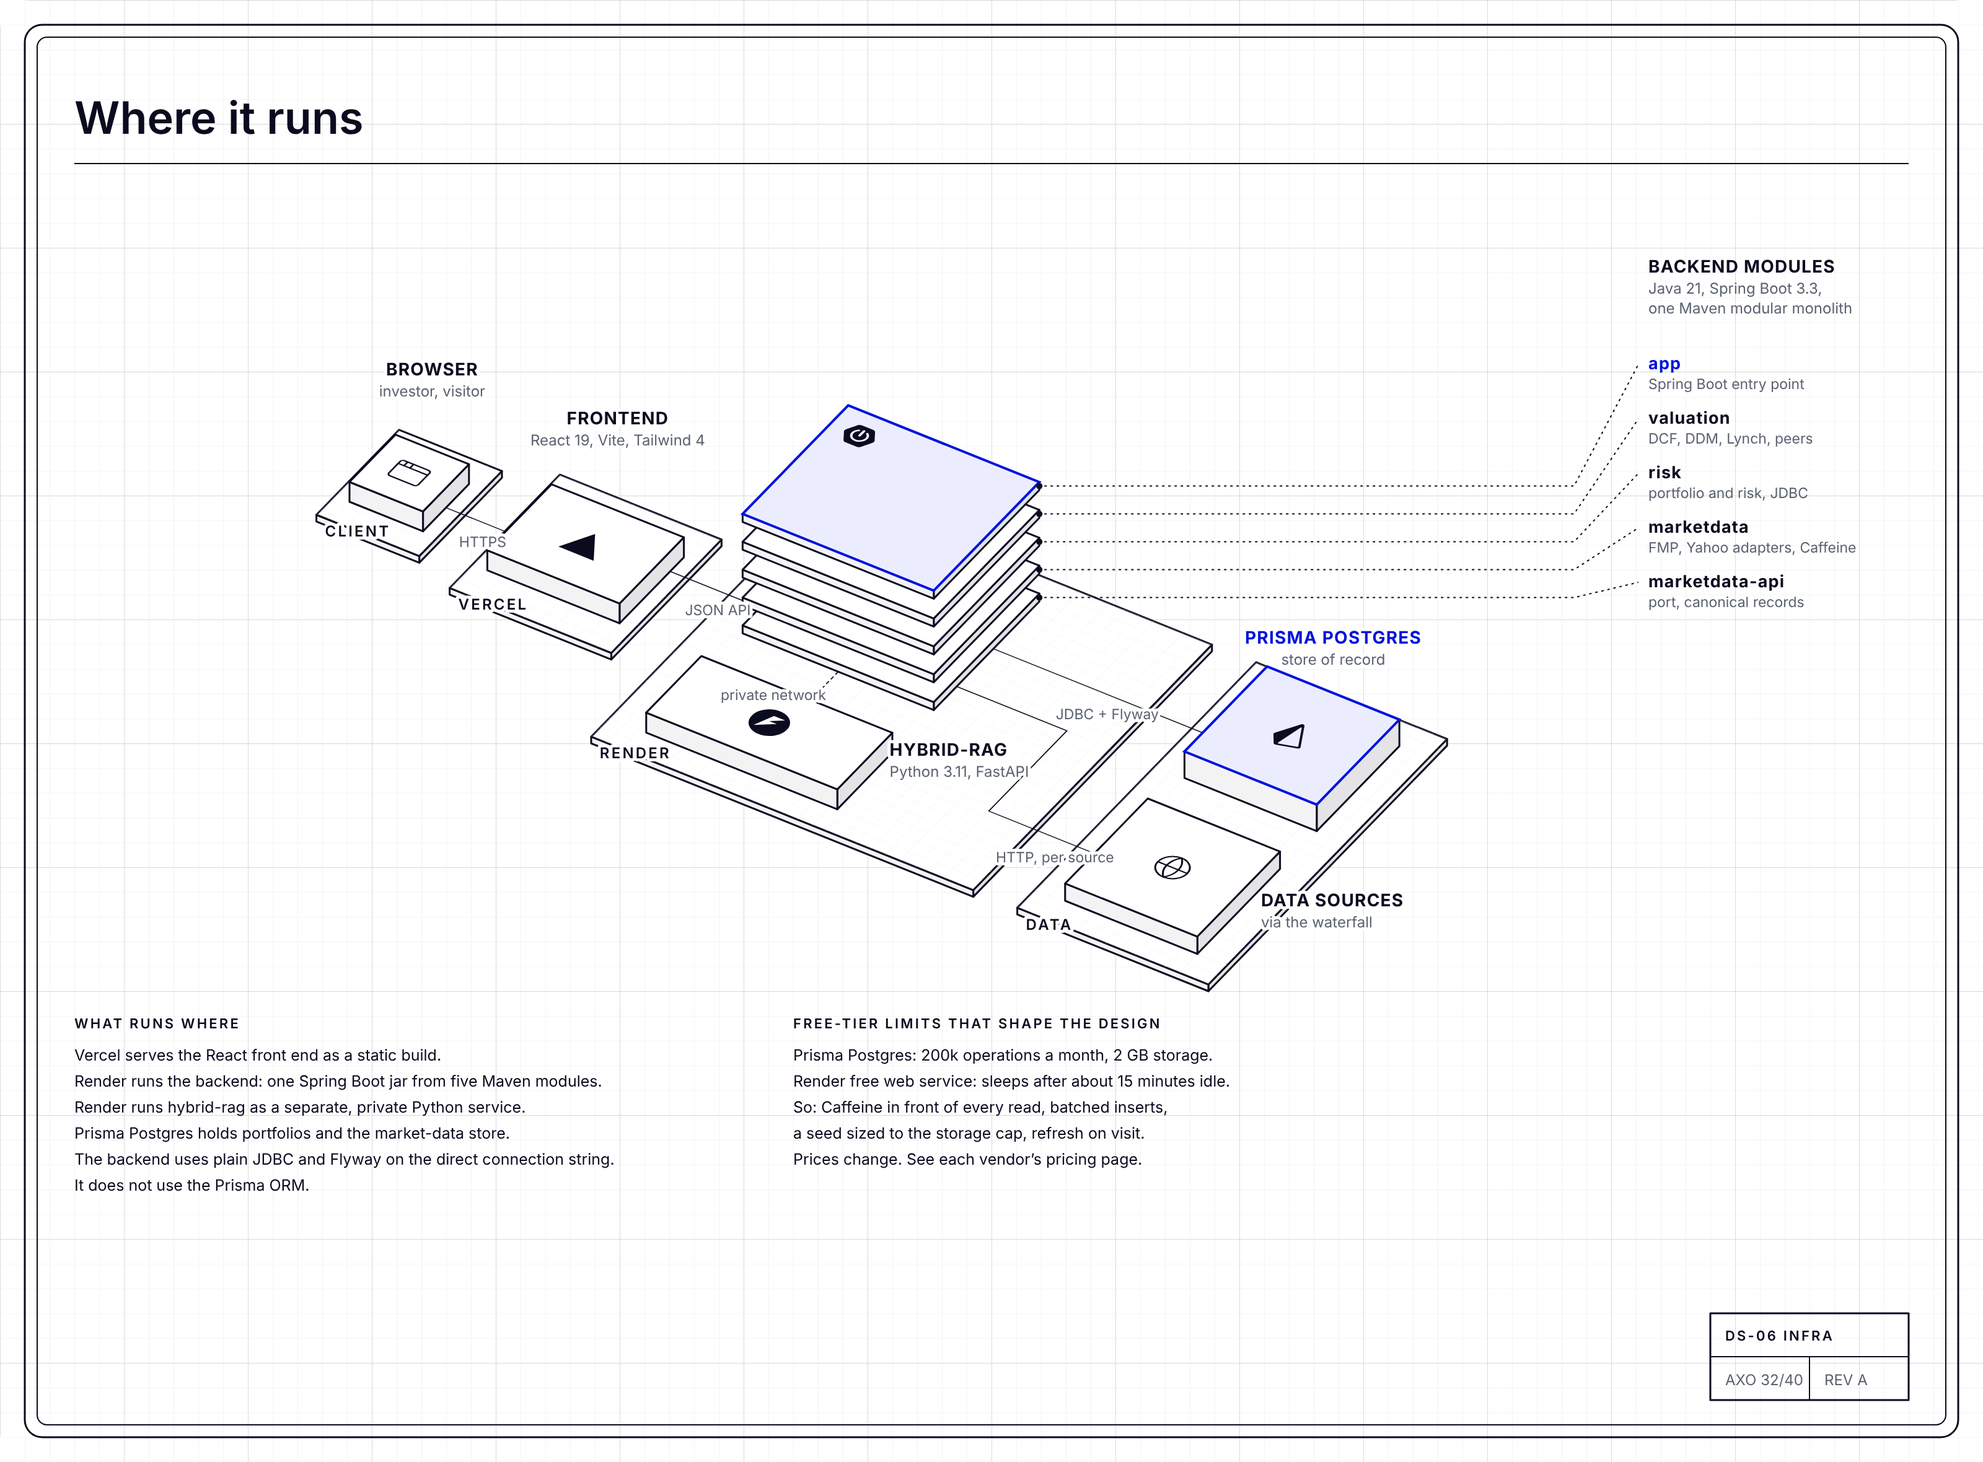
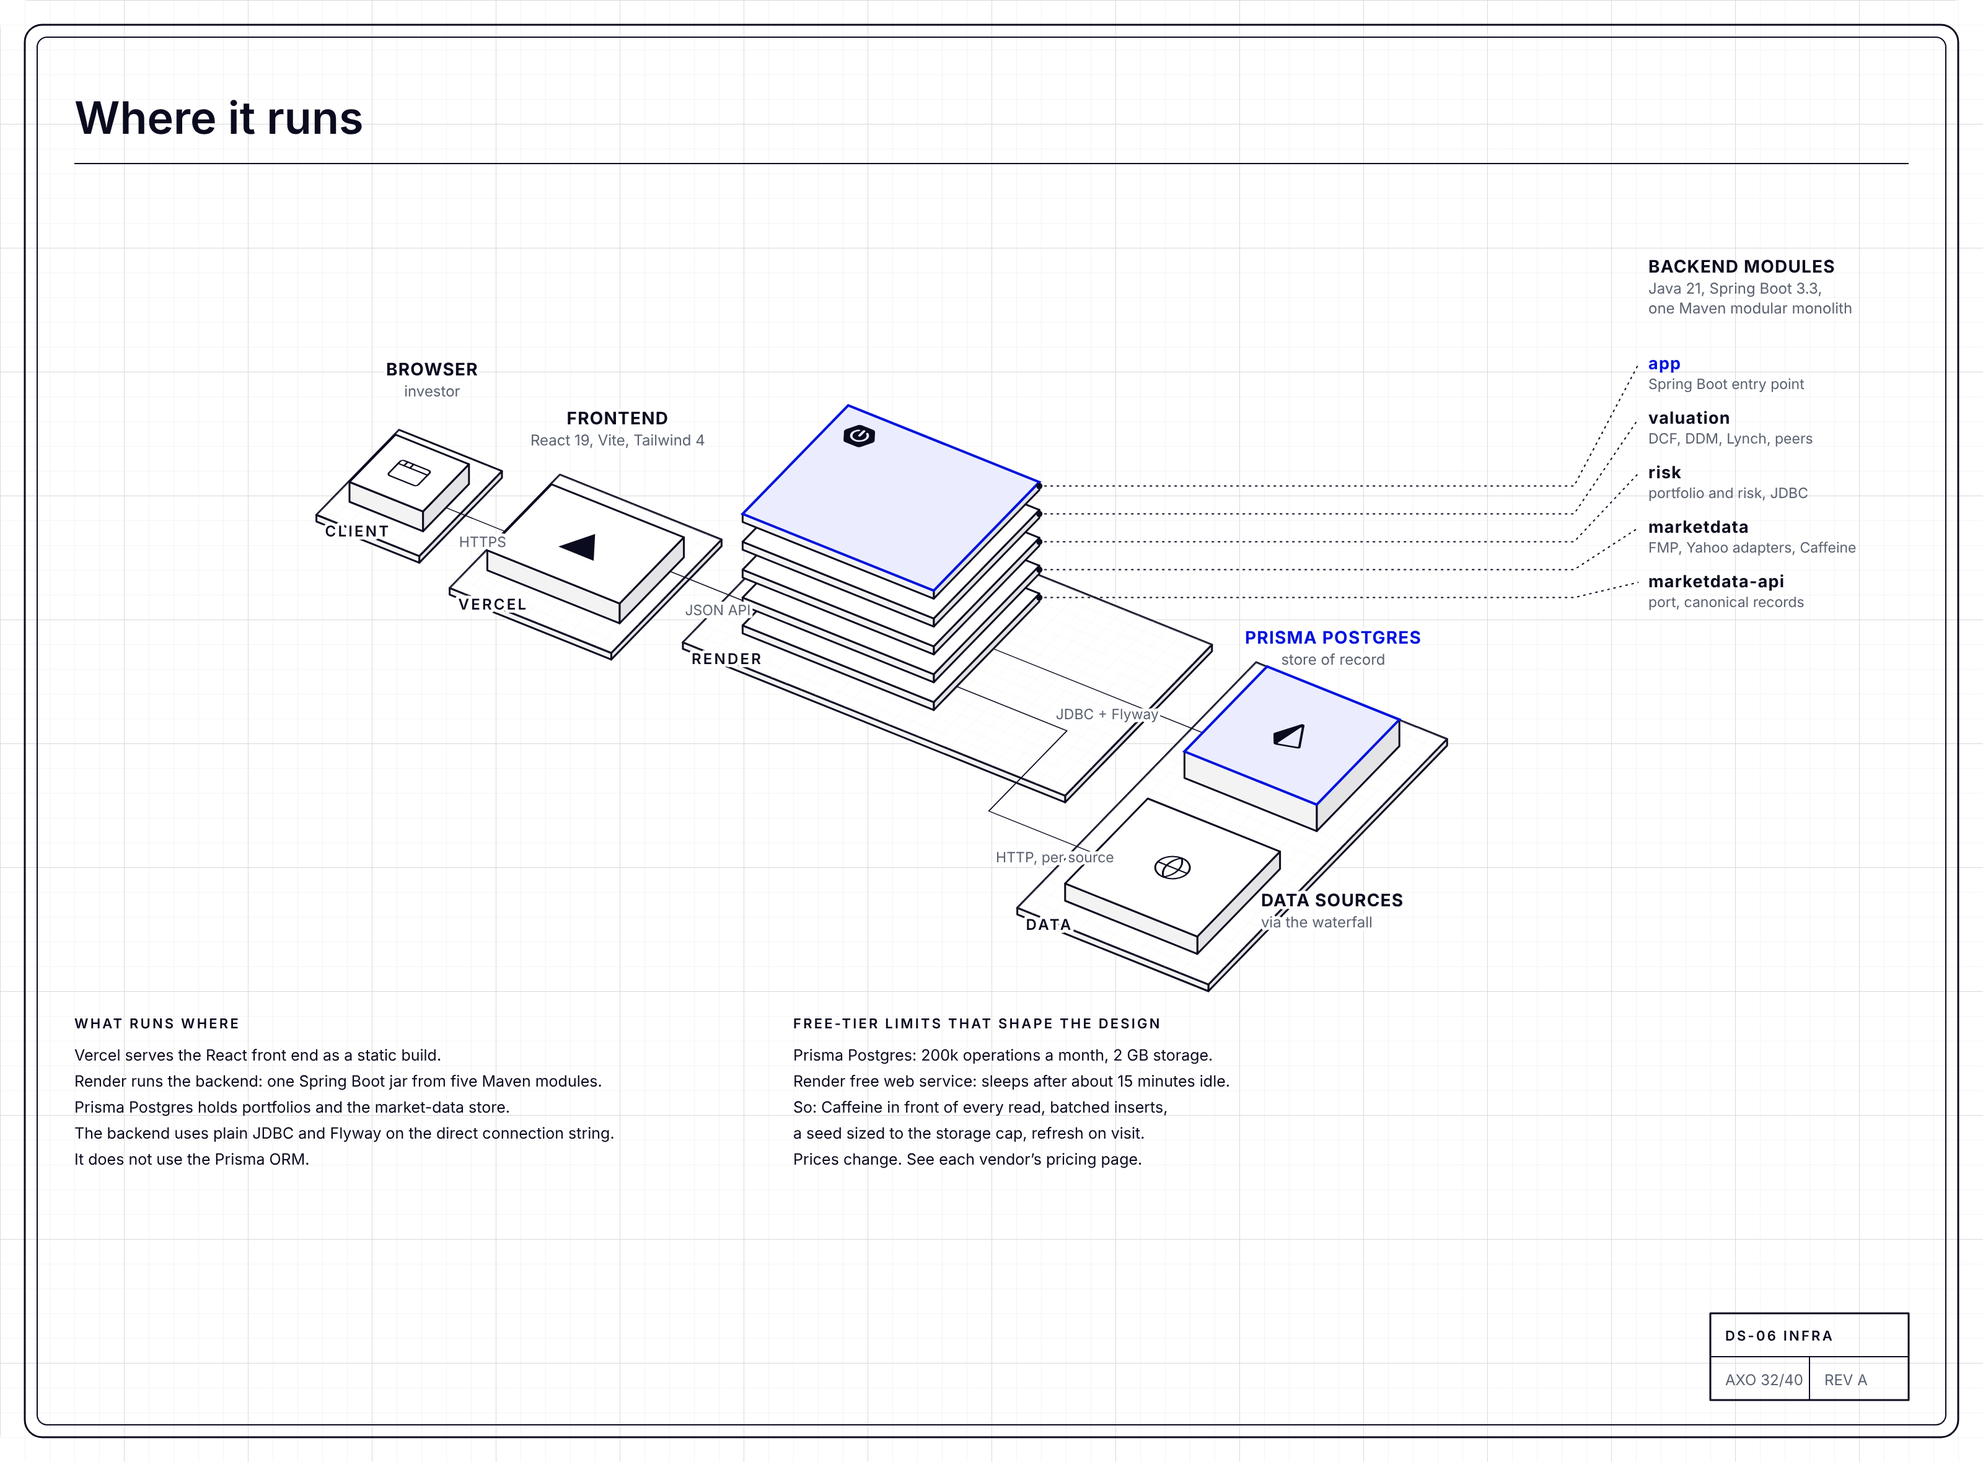
docs: one investor actor, drop hybrid-rag, tenants and demo visitor

diff --git a/docs/images/build-uml-usecases.py b/docs/images/build-uml-usecases.py
@@ -1,54 +1,37 @@
-# UML-01: use cases, flat 2D. Lenses come from the landing copy (landing/src/components/Features.tsx). Built endpoints:
-# risk-management-ms PortfolioController (risk, beta, alpha, drawdown, correlation, look-through, ...), the valuation
-# REST API on refactor/java-monolith, hybrid-rag POST /ingest and /query. Tenants, roles and the demo mode are designed.
+# UML-01: use cases, flat 2D. One actor, the investor. Portfolio data is private to each investor;
+# market data is shared by all investors and stored once. Lenses come from the landing copy.
 import blueprint as bp
-bp.H = 1080
-from blueprint import ACC, lu
+bp.H = 980
+from blueprint import lu
 import uml
 from uml import actor, line, note, package, system_box, text, usecase
 
 o = uml.sheet('What FinRisk does, and for whom')
-o.append('<rect x="280" y="180" width="900" height="720" style="fill:none;stroke:#0a0b1f;stroke-width:2"/>')
-o.append(text(296, 203, 'FINRISK', 't'))
-W = 260
-PK = {  # name: (x, y, h, cases)
-    'PUBLIC': (300, 220, 230, ['View the landing page', 'Request access', 'Try the demo (public data)']),
-    'TENANT ADMIN': (900, 220, 230, ['Invite members', 'Assign roles', 'Manage the tenant']),
-    'PORTFOLIO': (300, 480, 400, ['Manage accounts', 'Record trades', 'View holdings and P&amp;L']),
-    'FIVE LENSES': (600, 480, 400, ['Analyse portfolio risk', 'Read fundamentals', 'Value a stock',
-                                     'Run a stress test', 'See market intelligence']),
-    'DOCUMENTS': (900, 480, 400, ['Ingest documents', 'Ask documents']),
+o.append('<rect x="300" y="180" width="840" height="560" style="fill:none;stroke:#0a0b1f;stroke-width:2"/>')
+o.append(text(316, 203, 'FINRISK', 't'))
+W, H = 360, 480
+PK = {  # name: (x, cases)
+    'PORTFOLIO · PRIVATE TO EACH INVESTOR': (330, ['Sign in', 'Manage accounts', 'Record trades',
+                                                  'View holdings and P&amp;L']),
+    'FIVE LENSES · SHARED MARKET DATA': (750, ['Analyse portfolio risk', 'Read fundamentals', 'Value a stock',
+                                               'Run a stress test', 'See market intelligence']),
 }
-pos = {}
-for name, (x, y, h, cases) in PK.items():
-    o.append(package(x, y, W, h, name))
-    gap = 66 if len(cases) > 3 else 54
+for name, (x, cases) in PK.items():
+    o.append(package(x, 230, W, H, name))
     for i, c in enumerate(cases):
-        cy = y + 64 + i * gap
-        pos[c] = (x + W / 2, cy)
-        o.append(usecase(x + W / 2, cy, c, rx=112))
+        o.append(usecase(x + W / 2, 300 + i * 82, c, rx=130))
 
-o.append(note(600, 236, 260, ['A line to a package means', 'the actor can use every', 'use case inside it.']))
+# actor: one line into each package (the second runs under the system box)
+o.append(actor(160, 470, 'INVESTOR', 'signed in'))
+o.append(line('M190 432 H328'))
+o.append(line('M160 560 V780 H930 V712'))
 
-# actors
-o.append(actor(160, 360, 'DEMO VISITOR', 'not signed in'))
-o.append(line('M190 322 H298'))
-o.append(actor(1330, 360, 'TENANT ADMIN', 'admin role'))
-o.append(line('M1300 322 H1162'))
-o.append(actor(730, 1010, '', ''))
-o.append(text(757, 980, 'INVESTOR', 'h', style='font-size:14px') + text(757, 997, 'member of a tenant'))
-o.append(line('M730 958 V924 H1030') + line('M430 924 H730'))
-for x in (430, 730, 1030):
-    o.append(line(f'M{x} 924 V882'))
+# external system
+o.append(system_box(1200, 410, 240, 48, 'DATA SOURCES', lu('globe', 1212, 422, 24)))
+o.append(text(1244, 476, 'through the waterfall', style='font-size:11.5px'))
+o.append(line('M1200 432 H1112'))
 
-# external systems
-o.append(system_box(1220, 446, 230, 48, 'DATA SOURCES', lu('globe', 1232, 458, 24)))
-o.append(text(1264, 512, 'through the waterfall', style='font-size:11.5px'))
-o.append(line('M1220 466 H730 V478'))
-o.append(system_box(1220, 600, 230, 48, 'HYBRID-RAG', lu('bot', 1232, 612, 24)))
-ax, ay = pos['Ask documents']
-o.append(line(f'M1220 624 L{ax + 112} {ay}'))
-ix, iy = pos['Ingest documents']
-o.append(line(f'M1220 616 L{ix + 112} {iy}'))
-
+o.append(note(300, 820, 840, ['Each investor sees only their own accounts, trades and holdings.',
+                              'Market data (prices, filings, macro series) is shared by all investors and stored once.'],
+              accent=True))
 uml.finish(o, 'uml-usecases', 'UML-01 USE CASES')

diff --git a/docs/images/build-ds-infra.py b/docs/images/build-ds-infra.py
@@ -1,6 +1,6 @@
 # DS-06: infrastructure and stack. 3D at a free camera: icons lie on the roofs, every label is a flat billboard.
 # Facts: user decisions (Vercel, Render, Prisma Postgres), caching.md section 5, and the modular-monolith plan
-# (docs/superpowers/plans/2026-11-19-java-modular-monolith.md: modules, render.yaml with a private RAG service).
+# (docs/superpowers/plans/2026-11-19-java-modular-monolith.md: modules).
 import blueprint as bp
 bp.H = 1180
 bp.VIEW = (32, 40)
@@ -25,7 +25,7 @@ def label(x, y, z, title, sub='', dx=0, dy=0, anchor='middle', acc=False):
     return (text(X + dx, Y + dy, title, 'h', anchor, f'{col}font-size:14px;{uml.HALO}') +
             (text(X + dx, Y + dy + 17, sub, anchor=anchor, style=f'font-size:12px;{uml.HALO}') if sub else ''))
 
-ZONES = [(0, 170, 140, 180, 'CLIENT'), (200, 140, 220, 240, 'VERCEL'), (480, 0, 520, 520, 'RENDER'),
+ZONES = [(0, 170, 140, 180, 'CLIENT'), (200, 140, 220, 240, 'VERCEL'), (480, 0, 520, 320, 'RENDER'),
          (1060, 0, 260, 520, 'DATA')]
 for z in ZONES:
     o.append(floor(*z))
@@ -36,8 +36,7 @@ for x0, y0, w, d, name in ZONES:
 
 # wires on the floor (drawn last, they lie in front)
 o.append(face(0) + wire('M120 260 H218') + wire('M400 220 H528') +
-         wire('M790 140 H1098') + wire('M790 220 H940 V390 H1098') +
-         wire('M660 270 V358', 'stroke-dasharray:6 4') + '</g>')
+         wire('M790 140 H1098') + wire('M790 220 H940 V390 H1098') + '</g>')
 
 # blocks, back to front
 o.append(box(1100, 40, 180, 180, 0, 40, si('prisma', 0, 0, 48), acc=True))
@@ -59,19 +58,16 @@ for i, (name, sub) in enumerate(MODS):
              + text(LX, LY - 2, name, 'h', style=f'font-size:13.5px;{"fill:" + ACC if name == "app" else ""}')
              + text(LX, LY + 14, sub, style='font-size:11.5px'))
 o.append(face(4 * 42 + 12) + f'<g transform="translate({mx + 20},{my + 20})">{si("springboot", 0, 0, 40)}</g></g>')
-o.append(box(530, 360, 260, 120, 0, 30, si('fastapi', 0, 0, 48)))
 o.append(box(220, 190, 180, 140, 0, 30, si('vercel', 0, 0, 48)))
 o.append(box(20, 210, 100, 100, 0, 30, lu('app-window', 0, 0, 48)))
 
 # billboards
-o.append(label(70, 210, 30, 'BROWSER', 'investor, visitor', dy=-60))
+o.append(label(70, 210, 30, 'BROWSER', 'investor', dy=-60))
 o.append(label(310, 190, 30, 'FRONTEND', 'React 19, Vite, Tailwind 4', dy=-70))
 o.append(text(1330, 220, 'BACKEND MODULES', 'h', style='font-size:14px') + text(1330, 237, 'Java 21, Spring Boot 3.3,') + text(1330, 253, 'one Maven modular monolith'))
-o.append(label(790, 420, 30, 'HYBRID-RAG', 'Python 3.11, FastAPI', dx=20, dy=-4, anchor='start'))
 o.append(label(1190, 40, 40, 'PRISMA POSTGRES', 'store of record', dy=-40, acc=True))
 o.append(label(1280, 390, 26, 'DATA SOURCES', 'via the waterfall', dx=18, dy=10, anchor='start'))
-for x, y, s in ((170, 260, 'HTTPS'), (465, 220, 'JSON API'), (945, 140, 'JDBC + Flyway'), (1030, 390, 'HTTP, per source'),
-                (600, 315, 'private network')):
+for x, y, s in ((170, 260, 'HTTPS'), (465, 220, 'JSON API'), (945, 140, 'JDBC + Flyway'), (1030, 390, 'HTTP, per source')):
     X, Y = iso(x, y, 0)
     o.append(text(X, Y + 20, s, anchor='middle', style=f'font-size:11.5px;{uml.HALO}'))
 
@@ -80,7 +76,6 @@ ys = 830
 o.append(text(60, ys, 'WHAT RUNS WHERE', 't'))
 for i, s in enumerate(['Vercel serves the React front end as a static build.',
                        'Render runs the backend: one Spring Boot jar from five Maven modules.',
-                       'Render runs hybrid-rag as a separate, private Python service.',
                        'Prisma Postgres holds portfolios and the market-data store.',
                        'The backend uses plain JDBC and Flyway on the direct connection string.',
                        'It does not use the Prisma ORM.']):

diff --git a/docs/images/build-readme-art.py b/docs/images/build-readme-art.py
@@ -70,12 +70,11 @@ render('hero', W, H)
 # (label, icon kind, icon name). Brand marks come from Simple Icons, the rest from Lucide. All drawn in ink.
 # Four rows: platform, backend, frontend, services. Brand marks from Simple Icons, the rest from Lucide.
 PILL_ROWS = [
-    [('Render', 'si', 'render'), ('Vercel', 'si', 'vercel'), ('Prisma Postgres', 'si', 'prisma'), ('Docker', 'si', 'docker')],
+    [('Render', 'si', 'render'), ('Vercel', 'si', 'vercel'), ('Prisma Postgres', 'si', 'prisma'), ('Docker', 'si', 'docker'),
+     ('Free data sources', 'lu', 'globe')],
     [('Java 21', 'si', 'openjdk'), ('Spring Boot 3.3', 'si', 'springboot'), ('Maven', 'si', 'apachemaven'),
      ('PostgreSQL', 'si', 'postgresql'), ('Flyway', 'si', 'flyway'), ('Caffeine', 'lu', 'cpu'), ('JUnit 5', 'si', 'junit5')],
     [('React 19', 'si', 'react'), ('Vite', 'si', 'vite'), ('Tailwind CSS 4', 'si', 'tailwindcss'), ('TypeScript', 'si', 'typescript')],
-    [('Python 3.11', 'si', 'python'), ('FastAPI', 'si', 'fastapi'), ('LangChain', 'si', 'langchain'),
-     ('FAISS + BM25', 'lu', 'search'), ('Free data sources', 'lu', 'globe')],
 ]
 PILLS = [p for row in PILL_ROWS for p in row]
 for f in os.listdir(OUT):  # drop pills that are no longer in the list

diff --git a/README.md b/README.md
@@ -5,6 +5,7 @@
   <img alt="Vercel" src="docs/images/readme/pill-vercel.png" height="26">
   <img alt="Prisma Postgres" src="docs/images/readme/pill-prisma-postgres.png" height="26">
   <img alt="Docker" src="docs/images/readme/pill-docker.png" height="26">
+  <img alt="Free data sources" src="docs/images/readme/pill-free-data-sources.png" height="26">
 </p>
 <p align="center">
   <img alt="Java 21" src="docs/images/readme/pill-java-21.png" height="26">
@@ -21,27 +22,20 @@
   <img alt="Tailwind CSS 4" src="docs/images/readme/pill-tailwind-css-4.png" height="26">
   <img alt="TypeScript" src="docs/images/readme/pill-typescript.png" height="26">
 </p>
-<p align="center">
-  <img alt="Python 3.11" src="docs/images/readme/pill-python-311.png" height="26">
-  <img alt="FastAPI" src="docs/images/readme/pill-fastapi.png" height="26">
-  <img alt="LangChain" src="docs/images/readme/pill-langchain.png" height="26">
-  <img alt="FAISS + BM25" src="docs/images/readme/pill-faiss-bm25.png" height="26">
-  <img alt="Free data sources" src="docs/images/readme/pill-free-data-sources.png" height="26">
-</p>
 
 ## About this project
 
 FinRisk helps a private investor understand what they own. You enter your accounts and trades. FinRisk then looks at the portfolio through five lenses: portfolio risk, fundamentals, intrinsic valuation, stress testing and market intelligence. It answers plain questions. How concentrated am I? What do my ETFs really hold? What is this stock worth? What happens to my portfolio in a recession? It gives analysis, not investment advice.
 
-There are three actors. The **investor** is a member of a tenant and owns portfolios. The **tenant admin** invites members and gives them roles. The **demo visitor** is not signed in. The visitor gets a demo on public-domain data. Two outside systems serve them. **Data sources** supply prices, filings and macro series through the waterfall. **hybrid-rag** answers questions about documents that the investor uploads.
+There is one actor, the **investor**. The investor signs in, manages accounts, records trades and follows holdings and P&amp;L. The investor also uses the five lenses on any stock or fund. Each investor sees only their own portfolio data. Market data is global: all investors share it, and it is stored once. **Data sources** supply that market data through the waterfall.
 
 The landing page is live at [finance-kit-bay.vercel.app](https://finance-kit-bay.vercel.app/). This screenshot comes from it.
 
 <img alt="Landing page hero: the title Know what you own over a blue background with glass cubes." src="docs/images/screens/hero.png" width="100%">
 
-<img alt="UML use-case diagram. Demo visitor uses the public package. Investor uses portfolio, five lenses and documents. Tenant admin uses the admin package. Data sources serve the lenses. hybrid-rag serves the document use cases." src="docs/images/uml-usecases.png" width="100%">
+<img alt="UML use-case diagram. The investor uses two packages: portfolio, private to each investor, and the five lenses on shared market data. Data sources serve the lenses." src="docs/images/uml-usecases.png" width="100%">
 
-A line to a package means the actor can use every use case in it. The investor reaches three packages through one bus at the bottom.
+A line to a package means the actor can use every use case in it.
 
 ## What this project focuses on
 
@@ -50,7 +44,7 @@ This is a personal, non-commercial project. It shows how to build a useful finan
 - **Multisource data aggregation.** Twenty-eight free sources were graded on depth, quota and terms. Each data resource gets its own ordered list of sources.
 - **Good decisions under budget and compute limits.** Free tiers set hard caps: 25 calls a day, 500 symbols a month, 200k database operations a month. The design treats each cap as a constraint, not as an afterthought.
 - **Cache, database and staleness design.** History is stored once and grows by delta fetches. Each resource has a fresh TTL, a revision window and a maximum stale age. Caffeine sits in front of Postgres for hot reads.
-- **Shared market data, separate portfolios.** Market data is one shared store. Portfolios are private to a tenant, with role-based access.
+- **Shared market data, private portfolios.** Market data is one global store that all users share, so nothing is fetched or stored twice. Each user's accounts, trades and holdings are private, enforced by role-based access.
 - **Decoupling through ports and the waterfall.** Valuation and risk see only the `marketdata-api` port. They cannot see a vendor at compile time. Each resource has its own ordered waterfall of sources.
 - **Financial domain knowledge.** DCF, dividend discount and Peter Lynch fair value, peer multiples, beta, alpha, volatility, correlation, drawdown, downside risk, sector exposure and ETF look-through.
 - **Front-end visualisation.** The landing app is React 19, Vite and Tailwind 4.
@@ -117,9 +111,9 @@ The price of this design is small. The first visitor after a long idle period ma
 
 ## Infrastructure and stack
 
-<img alt="Infrastructure sheet. A browser calls the React frontend on Vercel, which calls the Spring Boot backend on Render. The backend is a stack of five Maven modules: marketdata-api, marketdata, risk, valuation and app. It calls Prisma Postgres over JDBC and Flyway, the data sources over HTTP, and hybrid-rag over Render's private network." src="docs/images/ds-infra.png" width="100%">
+<img alt="Infrastructure sheet. A browser calls the React frontend on Vercel, which calls the Spring Boot backend on Render. The backend is a stack of five Maven modules: marketdata-api, marketdata, risk, valuation and app. It calls Prisma Postgres over JDBC and Flyway, and the data sources over HTTP." src="docs/images/ds-infra.png" width="100%">
 
-The front end runs on **Vercel** as a static React build. The backend runs on **Render** as one Spring Boot jar. It is a Maven modular monolith with five modules. `marketdata-api` is the port and the canonical records. `marketdata` holds the vendor adapters and the cache. `risk` holds the portfolio and risk contexts. `valuation` holds DCF, DDM, Lynch and peer analysis. `app` is the Spring Boot entry point that wires them. Valuation and risk depend only on `marketdata-api`. **hybrid-rag** stays a separate Python FastAPI service, private on Render. It is the only extra service.
+The front end runs on **Vercel** as a static React build. The backend runs on **Render** as one Spring Boot jar. It is a Maven modular monolith with five modules. `marketdata-api` is the port and the canonical records. `marketdata` holds the vendor adapters and the cache. `risk` holds the portfolio and risk contexts. `valuation` holds DCF, DDM, Lynch and peer analysis. `app` is the Spring Boot entry point that wires them. Valuation and risk depend only on `marketdata-api`.
 
 The database is **Prisma Postgres**. The backend does not use the Prisma ORM. It uses plain JDBC and Flyway over the direct connection string. The free plan allows 200k database operations a month and 2 GB of storage. Every query counts against that cap, so Caffeine sits in front of every read, inserts are batched and the seed is sized to fit. Prices and plans change, so check [prisma.io/pricing](https://www.prisma.io/pricing) for the current limits.
 
